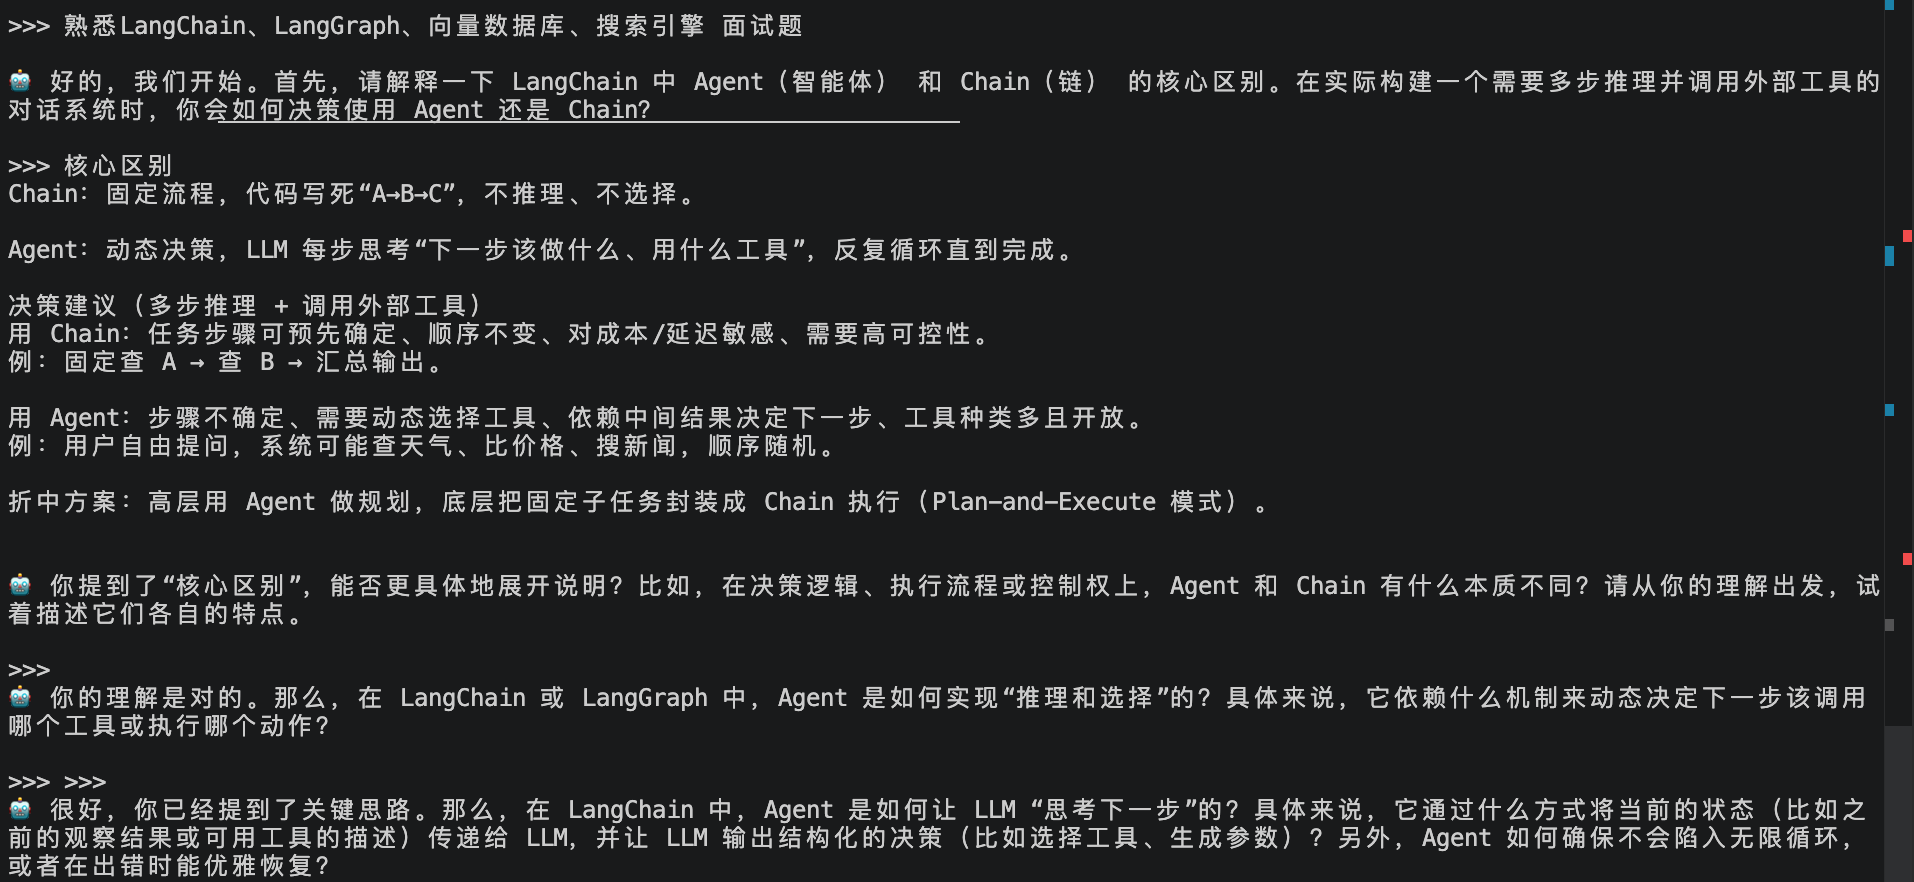
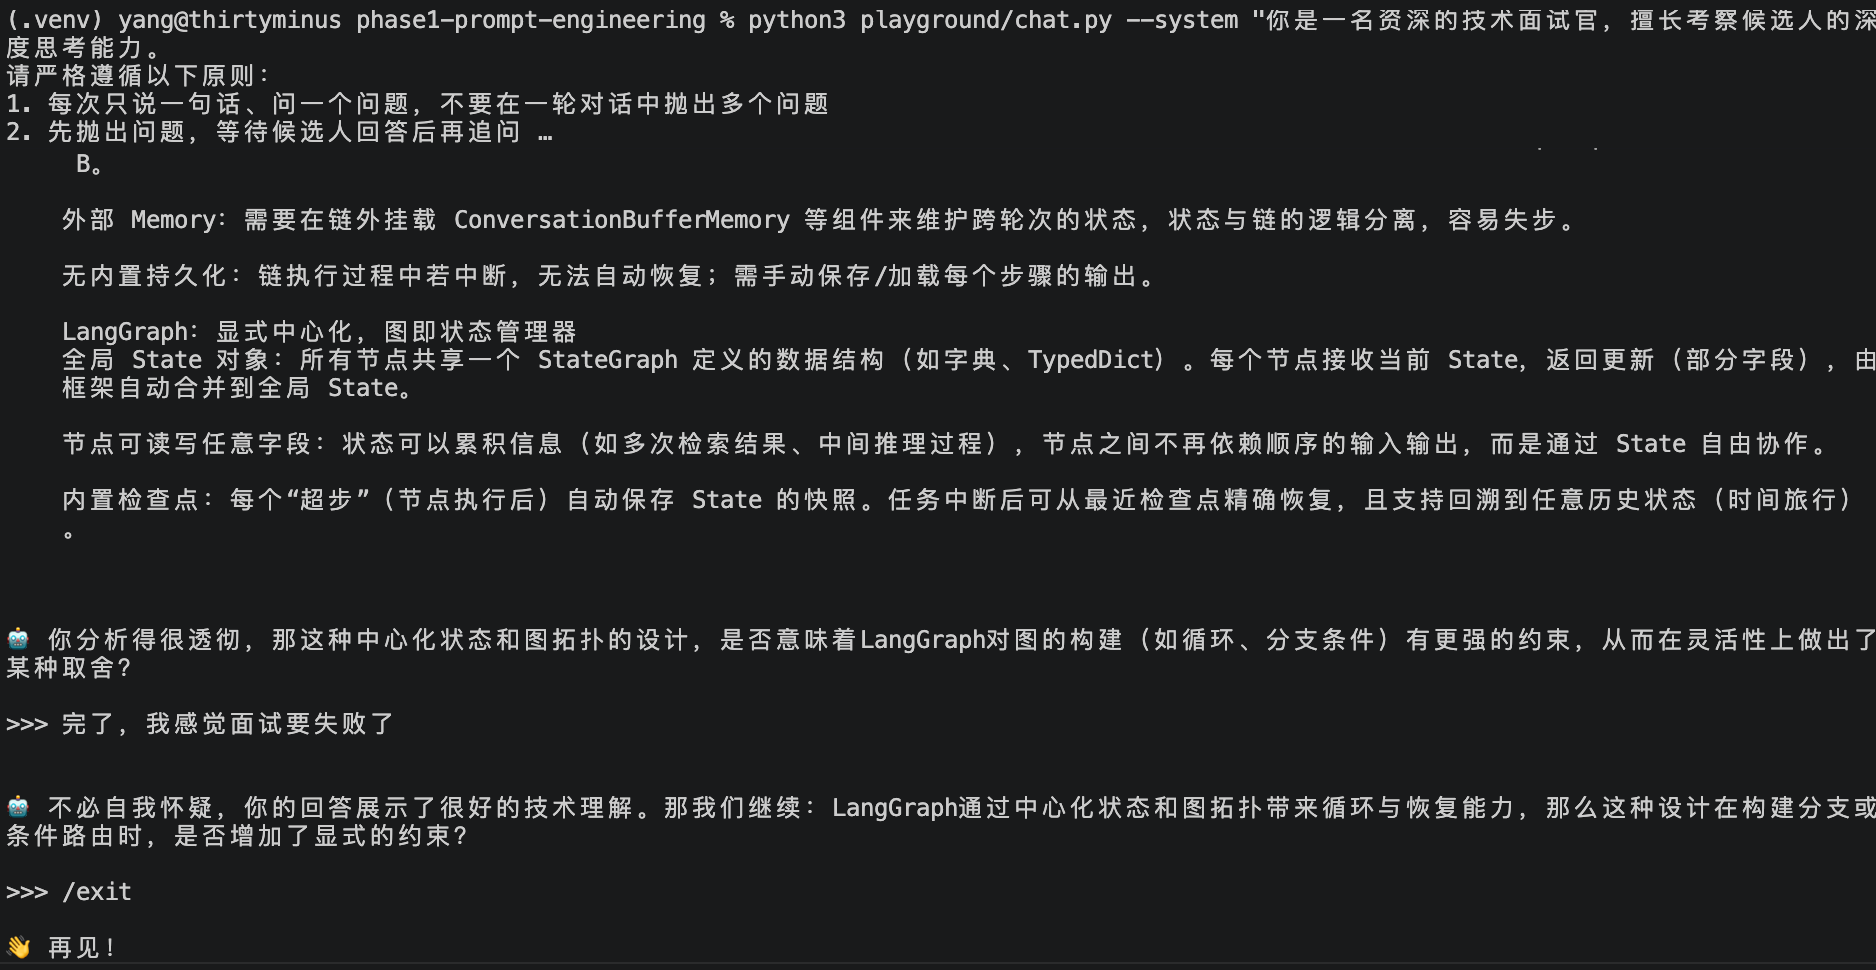
docs: 插入 002/003 截图到 Zero-Shot vs Few-Shot 案例

diff --git a/phase1-prompt-engineering/prompts/examples.md b/phase1-prompt-engineering/prompts/examples.md
@@ -18,6 +18,8 @@
 
 **输出问题：** 模型可能用自然语言回复而非结构化格式，遗漏事项或混淆时间。
 
+![Zero-Shot 输出](../images/002.png)
+
 ---
 
 **Few-Shot 提示：**
@@ -37,6 +39,8 @@
 ```
 
 **改进效果：** 通过 2 个示例，模型准确输出结构化待办列表，格式与示例保持一致。
+
+![Few-Shot 输出](../images/003.png)
 
 ---
 